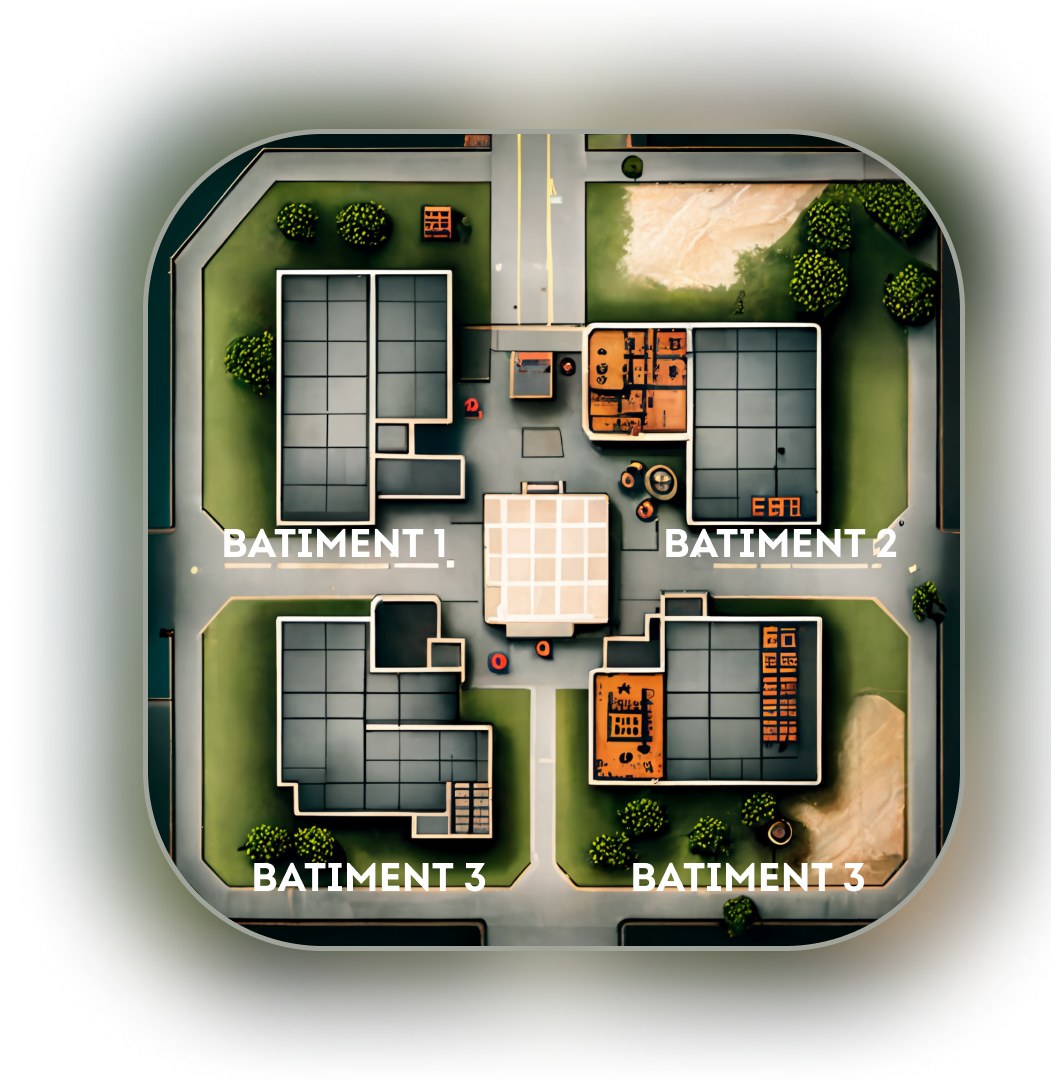
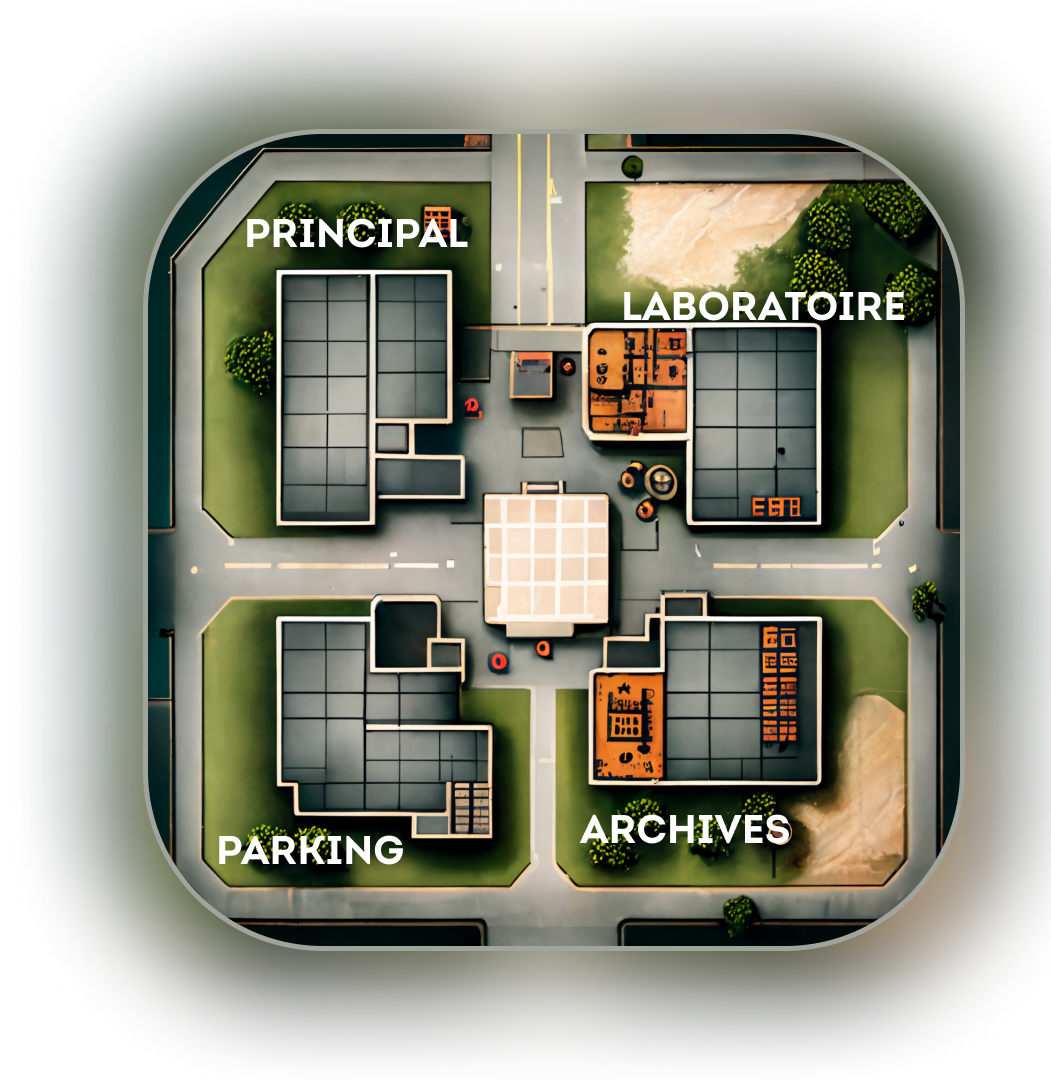
integr

diff --git a/Projet ABPP/MainWindow.xaml b/Projet ABPP/MainWindow.xaml
@@ -5,16 +5,16 @@
         xmlns:mc="http://schemas.openxmlformats.org/markup-compatibility/2006"
         xmlns:local="clr-namespace:Projet_ABPP"
         mc:Ignorable="d"
-        Title="MainWindow" Height="515" Width="1000" MaxHeight="550" MaxWidth="1000" MinHeight="550" MinWidth="550" Margin="-14,0,0,0" ResizeMode="NoResize">
+        Title="MainWindow" Height="498" Width="999" MaxHeight="550" MaxWidth="1000" MinHeight="550" MinWidth="550" Margin="-14,0,0,0" ResizeMode="NoResize">
     <Window.Background>
         <LinearGradientBrush EndPoint="0.5,1" StartPoint="0.5,0">
-            <GradientStop Color="#FFC5B7F7" Offset="0.013"/>
-            <GradientStop Color="#FF5F3ED8" Offset="1"/>
+            <GradientStop Color="White" Offset="0.013"/>
+            <GradientStop Color="#FF3F5071" Offset="1"/>
         </LinearGradientBrush>
     </Window.Background>
     <Border CornerRadius="52" BorderThickness="10" BorderBrush="Transparent" Height="NaN" Margin="0,0,89,103" Width="NaN">
 
-        <Border CornerRadius="35" BorderThickness="20" Margin="120,29,39,-3" Width="NaN">
+        <Border CornerRadius="35" BorderThickness="20" Margin="156,29,54,-3" Width="NaN">
             <Border.BorderBrush>
                 <LinearGradientBrush StartPoint="0,0" EndPoint="1,1">
                     <GradientStop Color="LightGreen" Offset="0.0"/>
@@ -22,11 +22,14 @@
                     <GradientStop Color="#1E91A5" Offset="1.0"/>
                 </LinearGradientBrush>
             </Border.BorderBrush>
-            <Grid Margin="-2,-4,-3,0" Height="350" Width="NaN" VerticalAlignment="Top">
+            <Grid Margin="-4,-4,-9,0" Height="350" Width="NaN" VerticalAlignment="Top">
                 <Grid.RowDefinitions>
                     <RowDefinition Height="44*"/>
                     <RowDefinition Height="91*"/>
-                    <RowDefinition Height="215*"/>
+                    <RowDefinition Height="27*"/>
+                    <RowDefinition Height="14*"/>
+                    <RowDefinition Height="56*"/>
+                    <RowDefinition Height="118*"/>
                 </Grid.RowDefinitions>
                 <Grid.Background>
                     <LinearGradientBrush StartPoint="0,0" EndPoint="1,1">
@@ -36,7 +39,7 @@
                     </LinearGradientBrush>
 
                 </Grid.Background>
-                <Image Margin="191,43,162,208" RenderTransformOrigin="0.5,0.5" Grid.RowSpan="3">
+                <Image Margin="191,43,162,20" RenderTransformOrigin="0.5,0.5" Grid.RowSpan="3">
                     <Image.Source>/Image/login.png</Image.Source>
                     <Image.RenderTransform>
                         <TransformGroup>
@@ -48,7 +51,7 @@
                     </Image.RenderTransform>
 
                 </Image>
-                <Image Margin="471,132,-5,38" RenderTransformOrigin="0.5,0.5" Grid.Row="2" MouseDown="Send">
+                <Image Margin="471,35,-5,38" RenderTransformOrigin="0.5,0.5" Grid.Row="5" MouseDown="Send">
                     <Image.Source>/Image/send.png</Image.Source>
                     <Image.RenderTransform>
                         <TransformGroup>
@@ -60,22 +63,22 @@
                     </Image.RenderTransform>
 
                 </Image>
-                <TextBox Margin="253,64,225,124" Grid.Row="2" TextAlignment="Center" BorderBrush="Black">
+                <TextBox x:Name="Login" Margin="253,23,225,6" Grid.Row="4" TextAlignment="Center" BorderBrush="Black">
                     <TextBox.Resources>
                         <Style TargetType="{x:Type Border}">
                             <Setter Property="CornerRadius" Value="13"/>
                         </Style>
                     </TextBox.Resources>
                 </TextBox>
-                <TextBox  Margin="249,133,220,55" Grid.Row="2" BorderBrush="Black" TextAlignment="Center">
+                <TextBox  x:Name="Motdepasse" Margin="249,36,220,55" Grid.Row="5" BorderBrush="Black" TextAlignment="Center">
                     <TextBox.Resources>
                         <Style TargetType="{x:Type Border}">
                             <Setter Property="CornerRadius" Value="13"/>
                         </Style>
                     </TextBox.Resources>
                 </TextBox>
-                <TextBox HorizontalAlignment="Left" Height="24" Margin="253,44,0,0" Grid.Row="2" TextWrapping="Wrap" Text="Login" VerticalAlignment="Top" Width="44" Background="{x:Null}" BorderBrush="{x:Null}"/>
-                <TextBox HorizontalAlignment="Left" Height="24" Margin="254,114,0,0" Grid.Row="2" TextWrapping="Wrap" Text="Mot de passe" VerticalAlignment="Top" Width="81" Background="{x:Null}" BorderBrush="{x:Null}" />
+                <TextBox HorizontalAlignment="Left" Height="24" Margin="253,3,0,0" Grid.Row="4" TextWrapping="Wrap" Text="Login" VerticalAlignment="Top" Width="44" Background="{x:Null}" BorderBrush="{x:Null}"/>
+                <TextBox HorizontalAlignment="Left" Height="24" Margin="254,17,0,0" Grid.Row="5" TextWrapping="Wrap" Text="Mot de passe" VerticalAlignment="Top" Width="81" Background="{x:Null}" BorderBrush="{x:Null}" />
 
             </Grid>
         </Border>

diff --git a/Projet ABPP/Laboratoire.xaml b/Projet ABPP/Laboratoire.xaml
@@ -1,11 +1,11 @@
-<Window x:Class="Projet_ABPP.BatPrincipale"
+<Window x:Class="Projet_ABPP.Laboratoire"
     xmlns="http://schemas.microsoft.com/winfx/2006/xaml/presentation"
     xmlns:x="http://schemas.microsoft.com/winfx/2006/xaml"
     xmlns:d="http://schemas.microsoft.com/expression/blend/2008"
     xmlns:mc="http://schemas.openxmlformats.org/markup-compatibility/2006"
     xmlns:local="clr-namespace:Projet_ABPP"
     mc:Ignorable="d"
-    Title="BatPrincipale" Height="450" Width="800">
+    Title="Laboratoire" Height="450" Width="800">
     <Window.Background>
         <LinearGradientBrush EndPoint="0.5,1" StartPoint="0.5,0">
             <GradientStop Color="#FF5EC584" Offset="0.003"/>
@@ -20,7 +20,7 @@
             <ColumnDefinition Width="*"/>
         </Grid.ColumnDefinitions>
 
-        <Image Margin="475,-6,-8,15" Grid.Column="0" Source="/image/principale.png" Grid.ColumnSpan="2">
+        <Image Margin="434,2,-1,1" Grid.Column="0" Source="/image/labo.png" Grid.ColumnSpan="2">
             <Image.RenderTransform>
                 <TransformGroup>
                     <ScaleTransform/>
@@ -31,9 +31,9 @@
             </Image.RenderTransform>
         </Image>
 
-        <StackPanel Grid.Column="1" Margin="0,16,342,19">
-            <TextBox Text="&#xA;&#xA;Le bâtiment principal est le bâtiment central du laboratoire. Il comprend les bureaux des employés, les salles de réunion, la cafétéria etc… &#xA;&#xA;Il est accessible à tous les visiteurs, ainsi qu'aux employés ayant les niveaux d'habilitation de visiteur, gestionnaire et laboratoire.&#xA;&#xA;" FontSize="18" Foreground="White" FontStretch="ExtraCondensed" BorderBrush="{x:Null}" Background="{x:Null}" TextWrapping="Wrap" TextChanged="TextBox_TextChanged_1" Height="414" Width="450"/>
-            <TextBox FontSize="18" Foreground="White" FontStretch="ExtraCondensed" BorderBrush="{x:Null}" Background="{x:Null}" TextWrapping="Wrap" Height="366"/>
+        <StackPanel Grid.Column="1" Margin="0,16,371,19">
+            <TextBox Text=" &#xA;&#xA;Le bâtiment des laboratoires est l'endroit où se déroulent les activités de recherche et de développement du laboratoire.&#xA;&#xA; Il est accessible uniquement aux employés ayant le niveau d'habilitation de laboratoire." FontSize="20" Foreground="White" FontStretch="ExtraCondensed" BorderBrush="{x:Null}" Background="{x:Null}" TextWrapping="Wrap" TextChanged="TextBox_TextChanged_1" Width="418" Height="404" HorizontalAlignment="Left" FontFamily="Bahnschrift Condensed"/>
         </StackPanel>
+        <TextBox Grid.ColumnSpan="2" HorizontalAlignment="Left" Height="62" Margin="514,16,0,0" TextWrapping="Wrap" Text="Laboratoire" VerticalAlignment="Top" Width="246" Background="{x:Null}" Foreground="White" FontSize="36" FontFamily="Carlito" FontWeight="Bold" BorderBrush="{x:Null}"/>
     </Grid>
 </Window>

diff --git a/Projet ABPP/Parking.xaml b/Projet ABPP/Parking.xaml
@@ -1,11 +1,11 @@
-<Window x:Class="Projet_ABPP.BatPrincipale"
+<Window x:Class="Projet_ABPP.Parking"
     xmlns="http://schemas.microsoft.com/winfx/2006/xaml/presentation"
     xmlns:x="http://schemas.microsoft.com/winfx/2006/xaml"
     xmlns:d="http://schemas.microsoft.com/expression/blend/2008"
     xmlns:mc="http://schemas.openxmlformats.org/markup-compatibility/2006"
     xmlns:local="clr-namespace:Projet_ABPP"
     mc:Ignorable="d"
-    Title="BatPrincipale" Height="450" Width="800">
+    Title="Parking" Height="450" Width="800">
     <Window.Background>
         <LinearGradientBrush EndPoint="0.5,1" StartPoint="0.5,0">
             <GradientStop Color="#FF5EC584" Offset="0.003"/>
@@ -17,10 +17,12 @@
     <Grid Margin="8,0,6,0">
         <Grid.ColumnDefinitions>
             <ColumnDefinition Width="Auto"/>
-            <ColumnDefinition Width="*"/>
+            <ColumnDefinition Width="22*"/>
+            <ColumnDefinition Width="83*"/>
+            <ColumnDefinition Width="288*"/>
         </Grid.ColumnDefinitions>
 
-        <Image Margin="475,-6,-8,15" Grid.Column="0" Source="/image/principale.png" Grid.ColumnSpan="2">
+        <Image Margin="224,2,-1,1" Grid.Column="3" Source="/image/parking.png">
             <Image.RenderTransform>
                 <TransformGroup>
                     <ScaleTransform/>
@@ -31,9 +33,8 @@
             </Image.RenderTransform>
         </Image>
 
-        <StackPanel Grid.Column="1" Margin="0,16,342,19">
-            <TextBox Text="&#xA;&#xA;Le bâtiment principal est le bâtiment central du laboratoire. Il comprend les bureaux des employés, les salles de réunion, la cafétéria etc… &#xA;&#xA;Il est accessible à tous les visiteurs, ainsi qu'aux employés ayant les niveaux d'habilitation de visiteur, gestionnaire et laboratoire.&#xA;&#xA;" FontSize="18" Foreground="White" FontStretch="ExtraCondensed" BorderBrush="{x:Null}" Background="{x:Null}" TextWrapping="Wrap" TextChanged="TextBox_TextChanged_1" Height="414" Width="450"/>
-            <TextBox FontSize="18" Foreground="White" FontStretch="ExtraCondensed" BorderBrush="{x:Null}" Background="{x:Null}" TextWrapping="Wrap" Height="366"/>
+        <StackPanel Grid.Column="1" Margin="0,16,371,19" Grid.ColumnSpan="3">
+            <TextBox Text=" &#xA;&#xA;Le bâtiment des laboratoires est l'endroit où se déroulent les activités de recherche et de développement du laboratoire.&#xA;&#xA; Il est accessible uniquement aux employés ayant le niveau d'habilitation de laboratoire." FontSize="20" Foreground="White" FontStretch="ExtraCondensed" BorderBrush="{x:Null}" Background="{x:Null}" TextWrapping="Wrap" TextChanged="TextBox_TextChanged_1" Width="418" Height="404" FontFamily="Bahnschrift Condensed"/>
         </StackPanel>
     </Grid>
 </Window>

diff --git a/Projet ABPP/Carte.xaml b/Projet ABPP/Carte.xaml
@@ -15,7 +15,7 @@
         </LinearGradientBrush>
     </Window.Background>
     <Grid Margin="30,0,6,0">
-        <Image Margin="482,95,-210,72" RenderTransformOrigin="0.5,0.5">
+        <Image Margin="694,100,-42,109" RenderTransformOrigin="0.5,0.5">
             <Image.RenderTransform>
                 <TransformGroup>
                     <ScaleTransform/>
@@ -28,8 +28,8 @@
                 <BitmapImage DecodePixelWidth="300" UriSource="/image/map.png" />
             </Image.Source>
         </Image>
-        <TextBox HorizontalAlignment="Left" Height="82" Margin="36,80,0,0" TextWrapping="Wrap" Text="GSB est une entreprise de " VerticalAlignment="Top" Width="420" Background="{x:Null}" TextChanged="TextBox_TextChanged" FontSize="27" Foreground="White" FontStretch="ExtraCondensed" BorderBrush="{x:Null}"/>
-        <TextBox HorizontalAlignment="Left" Height="356" Margin="34,236,0,0" TextWrapping="Wrap" Text="GSB se compose de 4 batiments&#xD;&#xA;&#xD;&#xA;- Le&#xD;&#xA; &#xD;&#xA;- Le&#xD;&#xA;&#xD;&#xA;- Le&#xD;&#xA;&#xD;&#xA;- Le" VerticalAlignment="Top" Width="420" Background="{x:Null}" TextChanged="TextBox_TextChanged" FontSize="27" Foreground="White" FontStretch="ExtraCondensed" BorderBrush="{x:Null}"/>
+        <TextBox HorizontalAlignment="Left" Height="82" Margin="21,82,0,0" TextWrapping="Wrap" Text="GSB est une entreprise de " VerticalAlignment="Top" Width="420" Background="{x:Null}" TextChanged="TextBox_TextChanged" FontSize="27" Foreground="White" FontStretch="ExtraCondensed" BorderBrush="{x:Null}"/>
+        <TextBox HorizontalAlignment="Left" Height="356" Margin="22,228,0,0" TextWrapping="Wrap" Text="GSB se compose de 4 batiments&#xD;&#xA;&#xD;&#xA;- Le&#xD;&#xA; &#xD;&#xA;- Le&#xD;&#xA;&#xD;&#xA;- Le&#xD;&#xA;&#xD;&#xA;- Le" VerticalAlignment="Top" Width="420" Background="{x:Null}" TextChanged="TextBox_TextChanged" FontSize="27" Foreground="White" FontStretch="ExtraCondensed" BorderBrush="{x:Null}"/>
 
     </Grid>
 </Window>

diff --git a/Projet ABPP/Archives.xaml b/Projet ABPP/Archives.xaml
@@ -1,0 +1,12 @@
+<Window x:Class="Projet_ABPP.Archives"
+        xmlns="http://schemas.microsoft.com/winfx/2006/xaml/presentation"
+        xmlns:x="http://schemas.microsoft.com/winfx/2006/xaml"
+        xmlns:d="http://schemas.microsoft.com/expression/blend/2008"
+        xmlns:mc="http://schemas.openxmlformats.org/markup-compatibility/2006"
+        xmlns:local="clr-namespace:Projet_ABPP"
+        mc:Ignorable="d"
+        Title="Archives" Height="450" Width="800">
+    <Grid>
+        
+    </Grid>
+</Window>

diff --git a/Projet ABPP/DataService.cs b/Projet ABPP/DataService.cs
@@ -1,0 +1,31 @@
+using System;
+using System.Collections.Generic;
+using System.Collections.ObjectModel;
+using System.Data;
+using System.Data.Common;
+using System.Data.SqlClient;
+using System.Linq;
+using System.Text;
+using System.Threading.Tasks;
+using System.Windows;
+
+
+namespace Projet_ABBP
+{
+    public class DataService
+    {
+        private string connectionString = "Server=nom_du_serveur;Database=ABPP_Csharp;User Id=nom_d'utilisateur;Password=mot_de_passe;";
+
+        public void Connect()
+        {
+            using (SqlConnection connection = new SqlConnection(connectionString))
+            {
+                connection.Open();
+
+                // Utilisez la connexion ici
+
+                connection.Close();
+            }
+        }
+    }
+}

diff --git a/Projet ABPP/Archives.xaml.cs b/Projet ABPP/Archives.xaml.cs
@@ -15,23 +15,13 @@ using System.Windows.Shapes;
 namespace Projet_ABPP
 {
     /// <summary>
-    /// Logique d'interaction pour BatPrincipale.xaml
+    /// Logique d'interaction pour Archives.xaml
     /// </summary>
-    public partial class BatPrincipale : Window
+    public partial class Archives : Window
     {
-        public BatPrincipale()
+        public Archives()
         {
             InitializeComponent();
-        }
-
-        private void TextBox_TextChanged(object sender, TextChangedEventArgs e)
-        {
-
-        }
-
-        private void TextBox_TextChanged_1(object sender, TextChangedEventArgs e)
-        {
-
         }
     }
 }

diff --git a/Projet ABPP/Laboratoire.xaml.cs b/Projet ABPP/Laboratoire.xaml.cs
@@ -15,18 +15,13 @@ using System.Windows.Shapes;
 namespace Projet_ABPP
 {
     /// <summary>
-    /// Logique d'interaction pour BatPrincipale.xaml
+    /// Logique d'interaction pour Laboratoire.xaml
     /// </summary>
-    public partial class BatPrincipale : Window
+    public partial class Laboratoire : Window
     {
-        public BatPrincipale()
+        public Laboratoire()
         {
             InitializeComponent();
-        }
-
-        private void TextBox_TextChanged(object sender, TextChangedEventArgs e)
-        {
-
         }
 
         private void TextBox_TextChanged_1(object sender, TextChangedEventArgs e)

diff --git a/Projet ABPP/Parking.xaml.cs b/Projet ABPP/Parking.xaml.cs
@@ -15,18 +15,13 @@ using System.Windows.Shapes;
 namespace Projet_ABPP
 {
     /// <summary>
-    /// Logique d'interaction pour BatPrincipale.xaml
+    /// Logique d'interaction pour Parking.xaml
     /// </summary>
-    public partial class BatPrincipale : Window
+    public partial class Parking : Window
     {
-        public BatPrincipale()
+        public Parking()
         {
             InitializeComponent();
-        }
-
-        private void TextBox_TextChanged(object sender, TextChangedEventArgs e)
-        {
-
         }
 
         private void TextBox_TextChanged_1(object sender, TextChangedEventArgs e)

diff --git a/Projet ABPP/MainWindow.xaml.cs b/Projet ABPP/MainWindow.xaml.cs
@@ -25,6 +25,7 @@ namespace Projet_ABPP
         {
             Carte map = new Carte();
             map.Show();
+            this.Close();
         }
     }
 }
